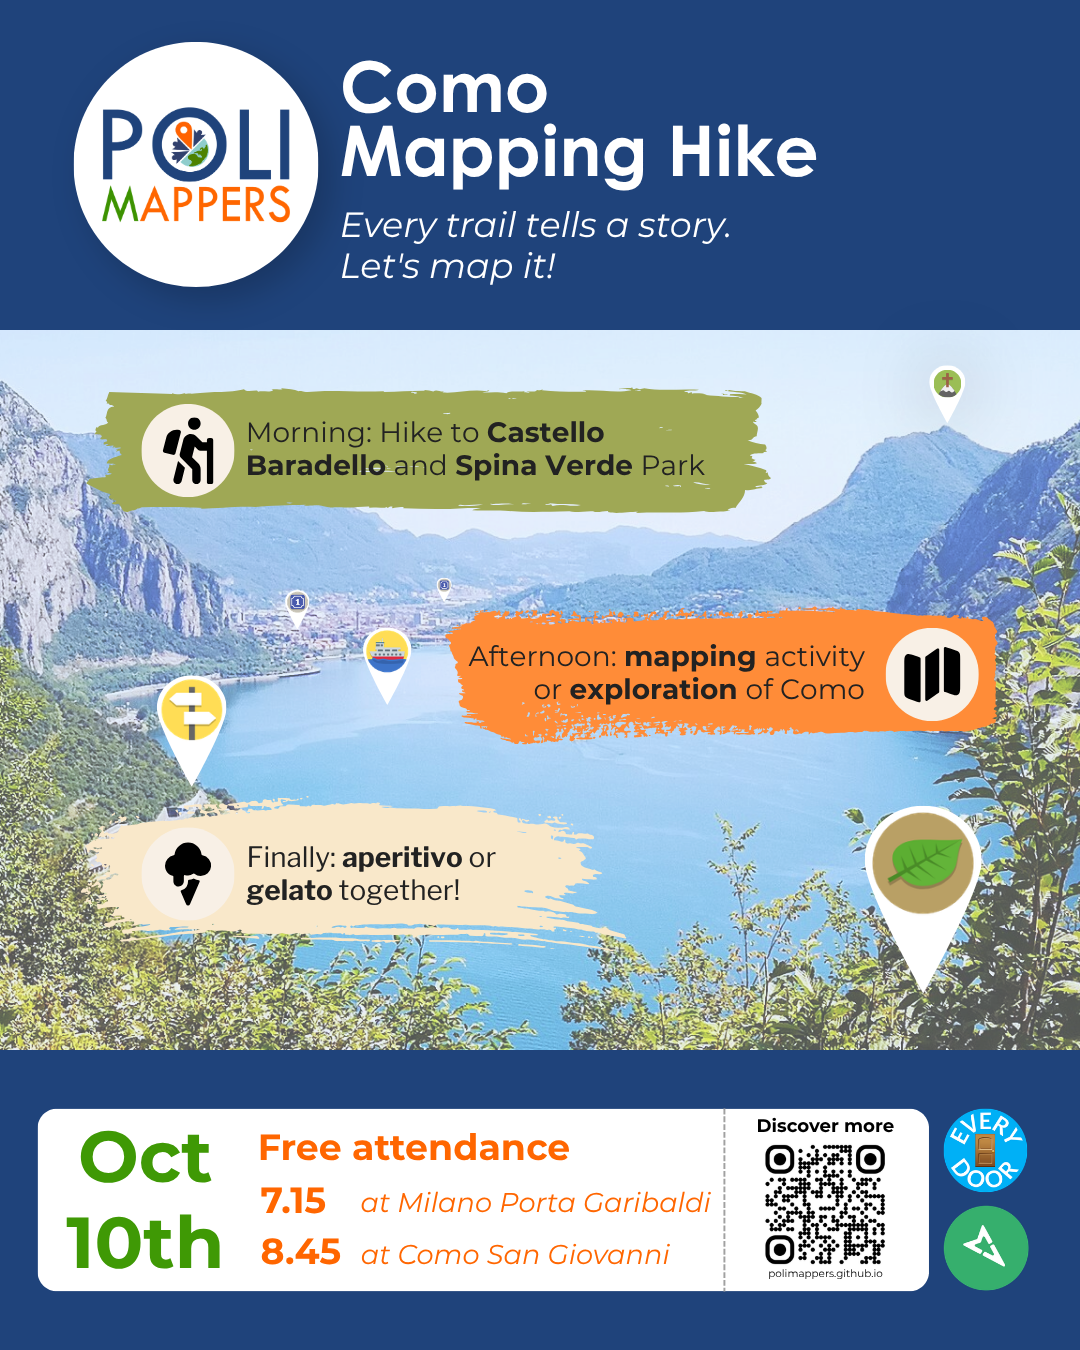
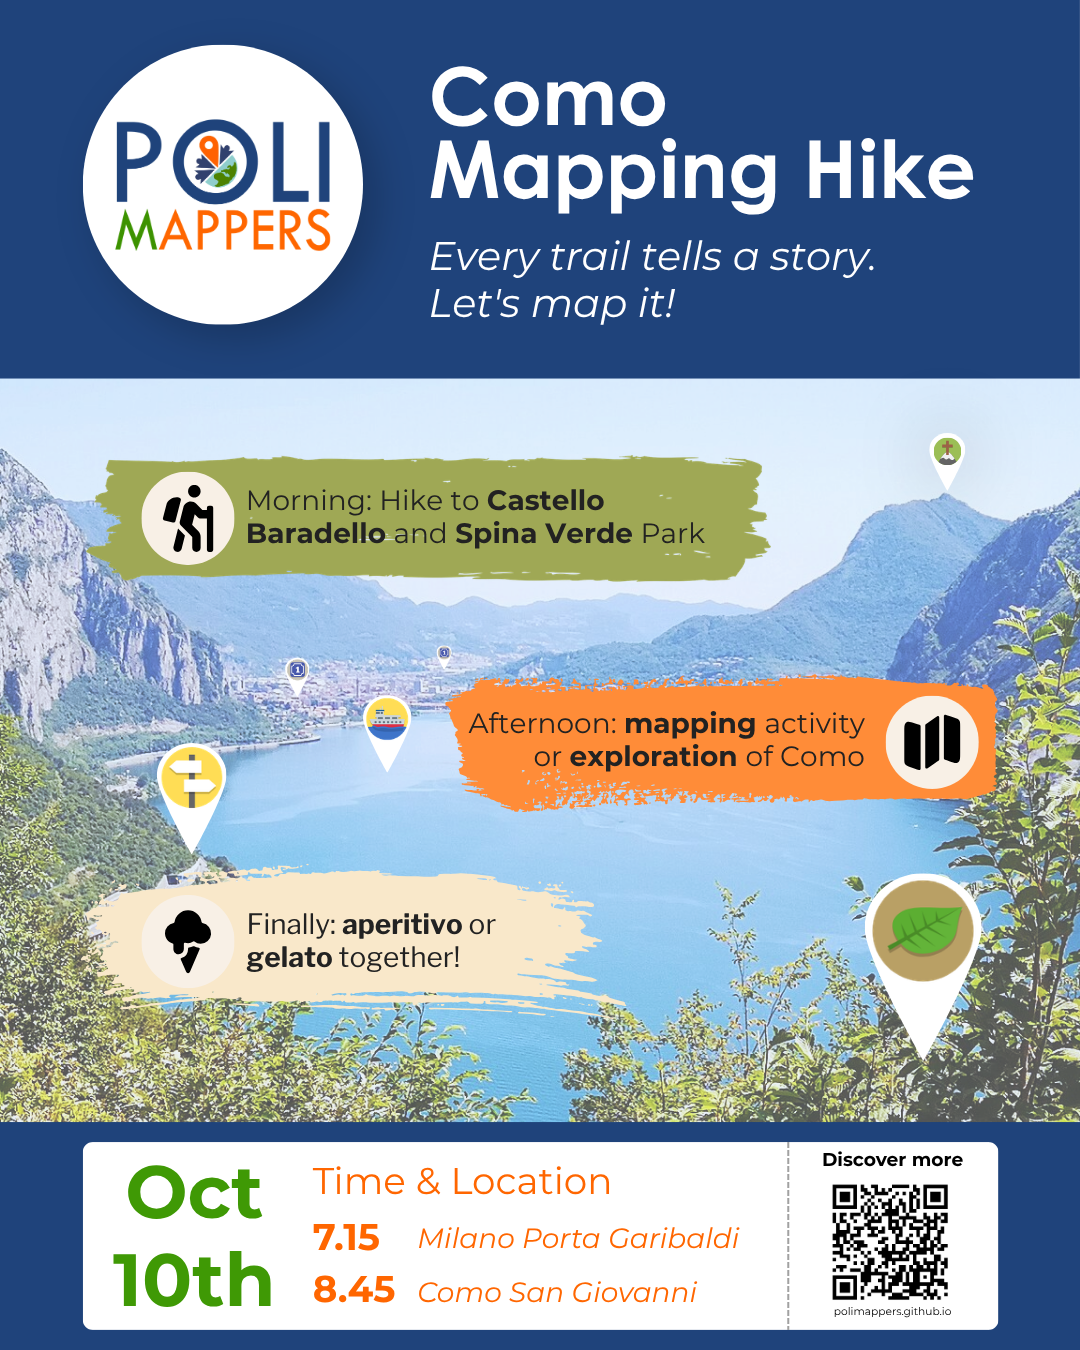
Fixed image issue for Como

diff --git a/src/content/events/como-mapping-hike.md b/src/content/events/como-mapping-hike.md
@@ -7,8 +7,6 @@ heroImage: "../../assets/como_mapping_october26.png"
 
 Come with us on a mapping hike! This event is designed for both beginners and experienced mappers.
 
-![Promotional poster for Como mapping hike on October 10th, 2026](../../assets/como_mapping_october26.png)
-
 On **October 10th**, PoliMappers is heading to the beautiful city of Como for an exciting day of open mapping, nature, and local culture.
 
 Whether you want to contribute to OpenStreetMap while hike up to a historic castle, or just enjoy a relaxing day by the lake with fellow mappers, this trip has something for everyone!
